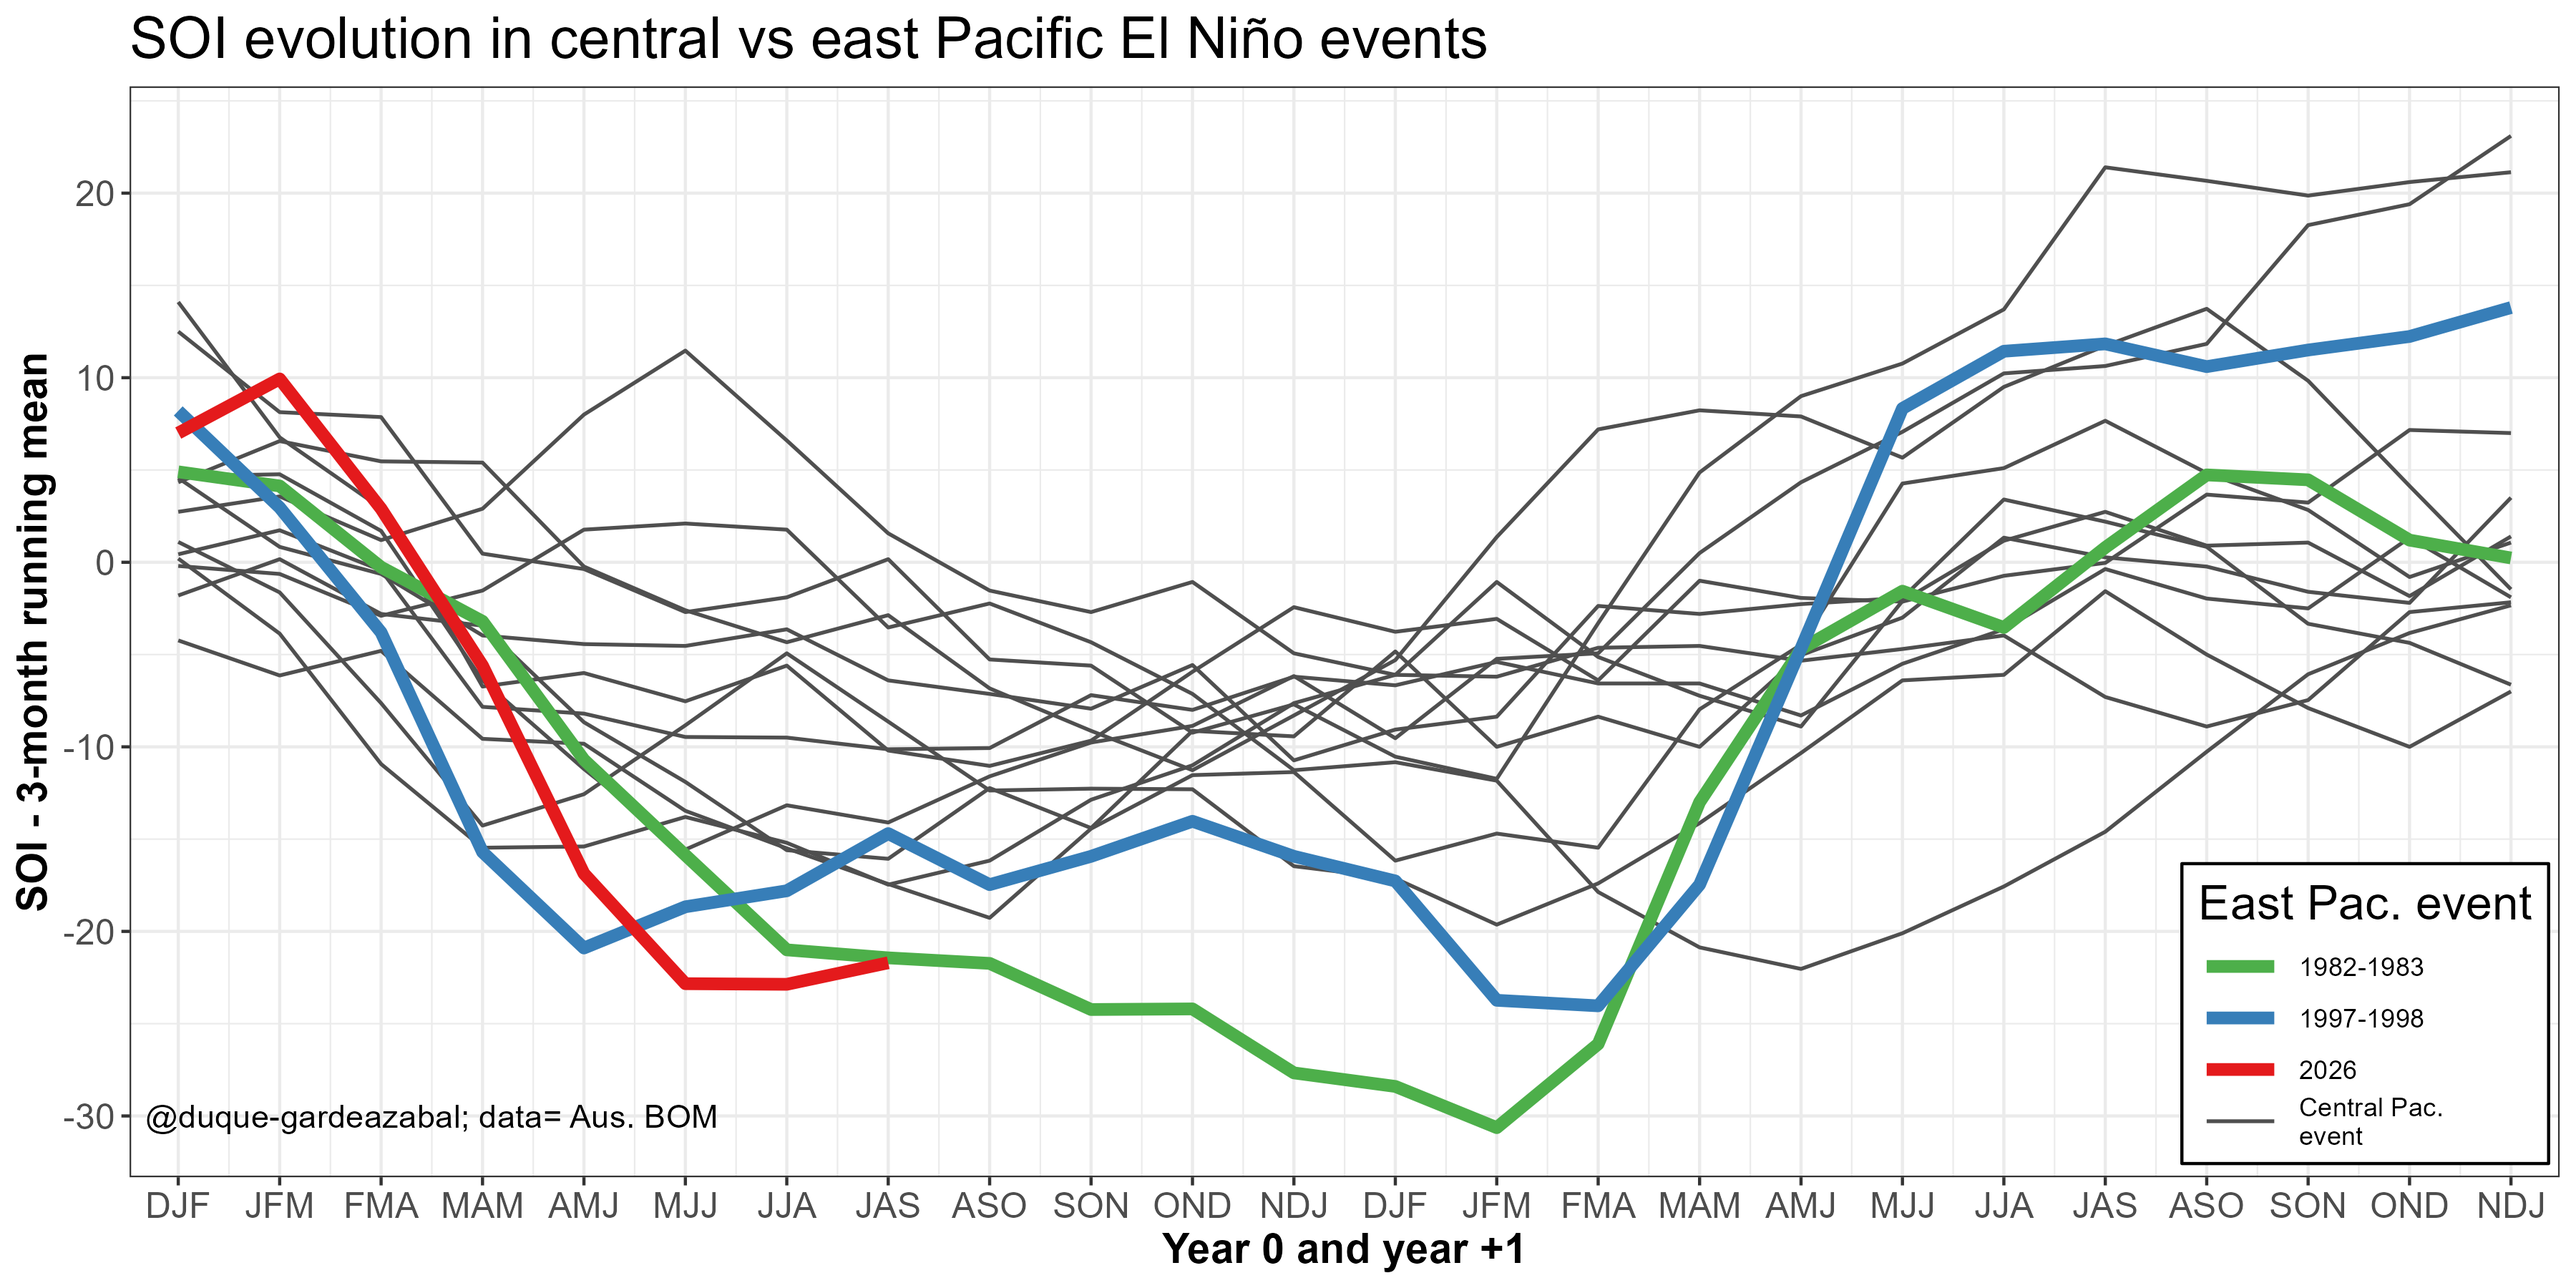
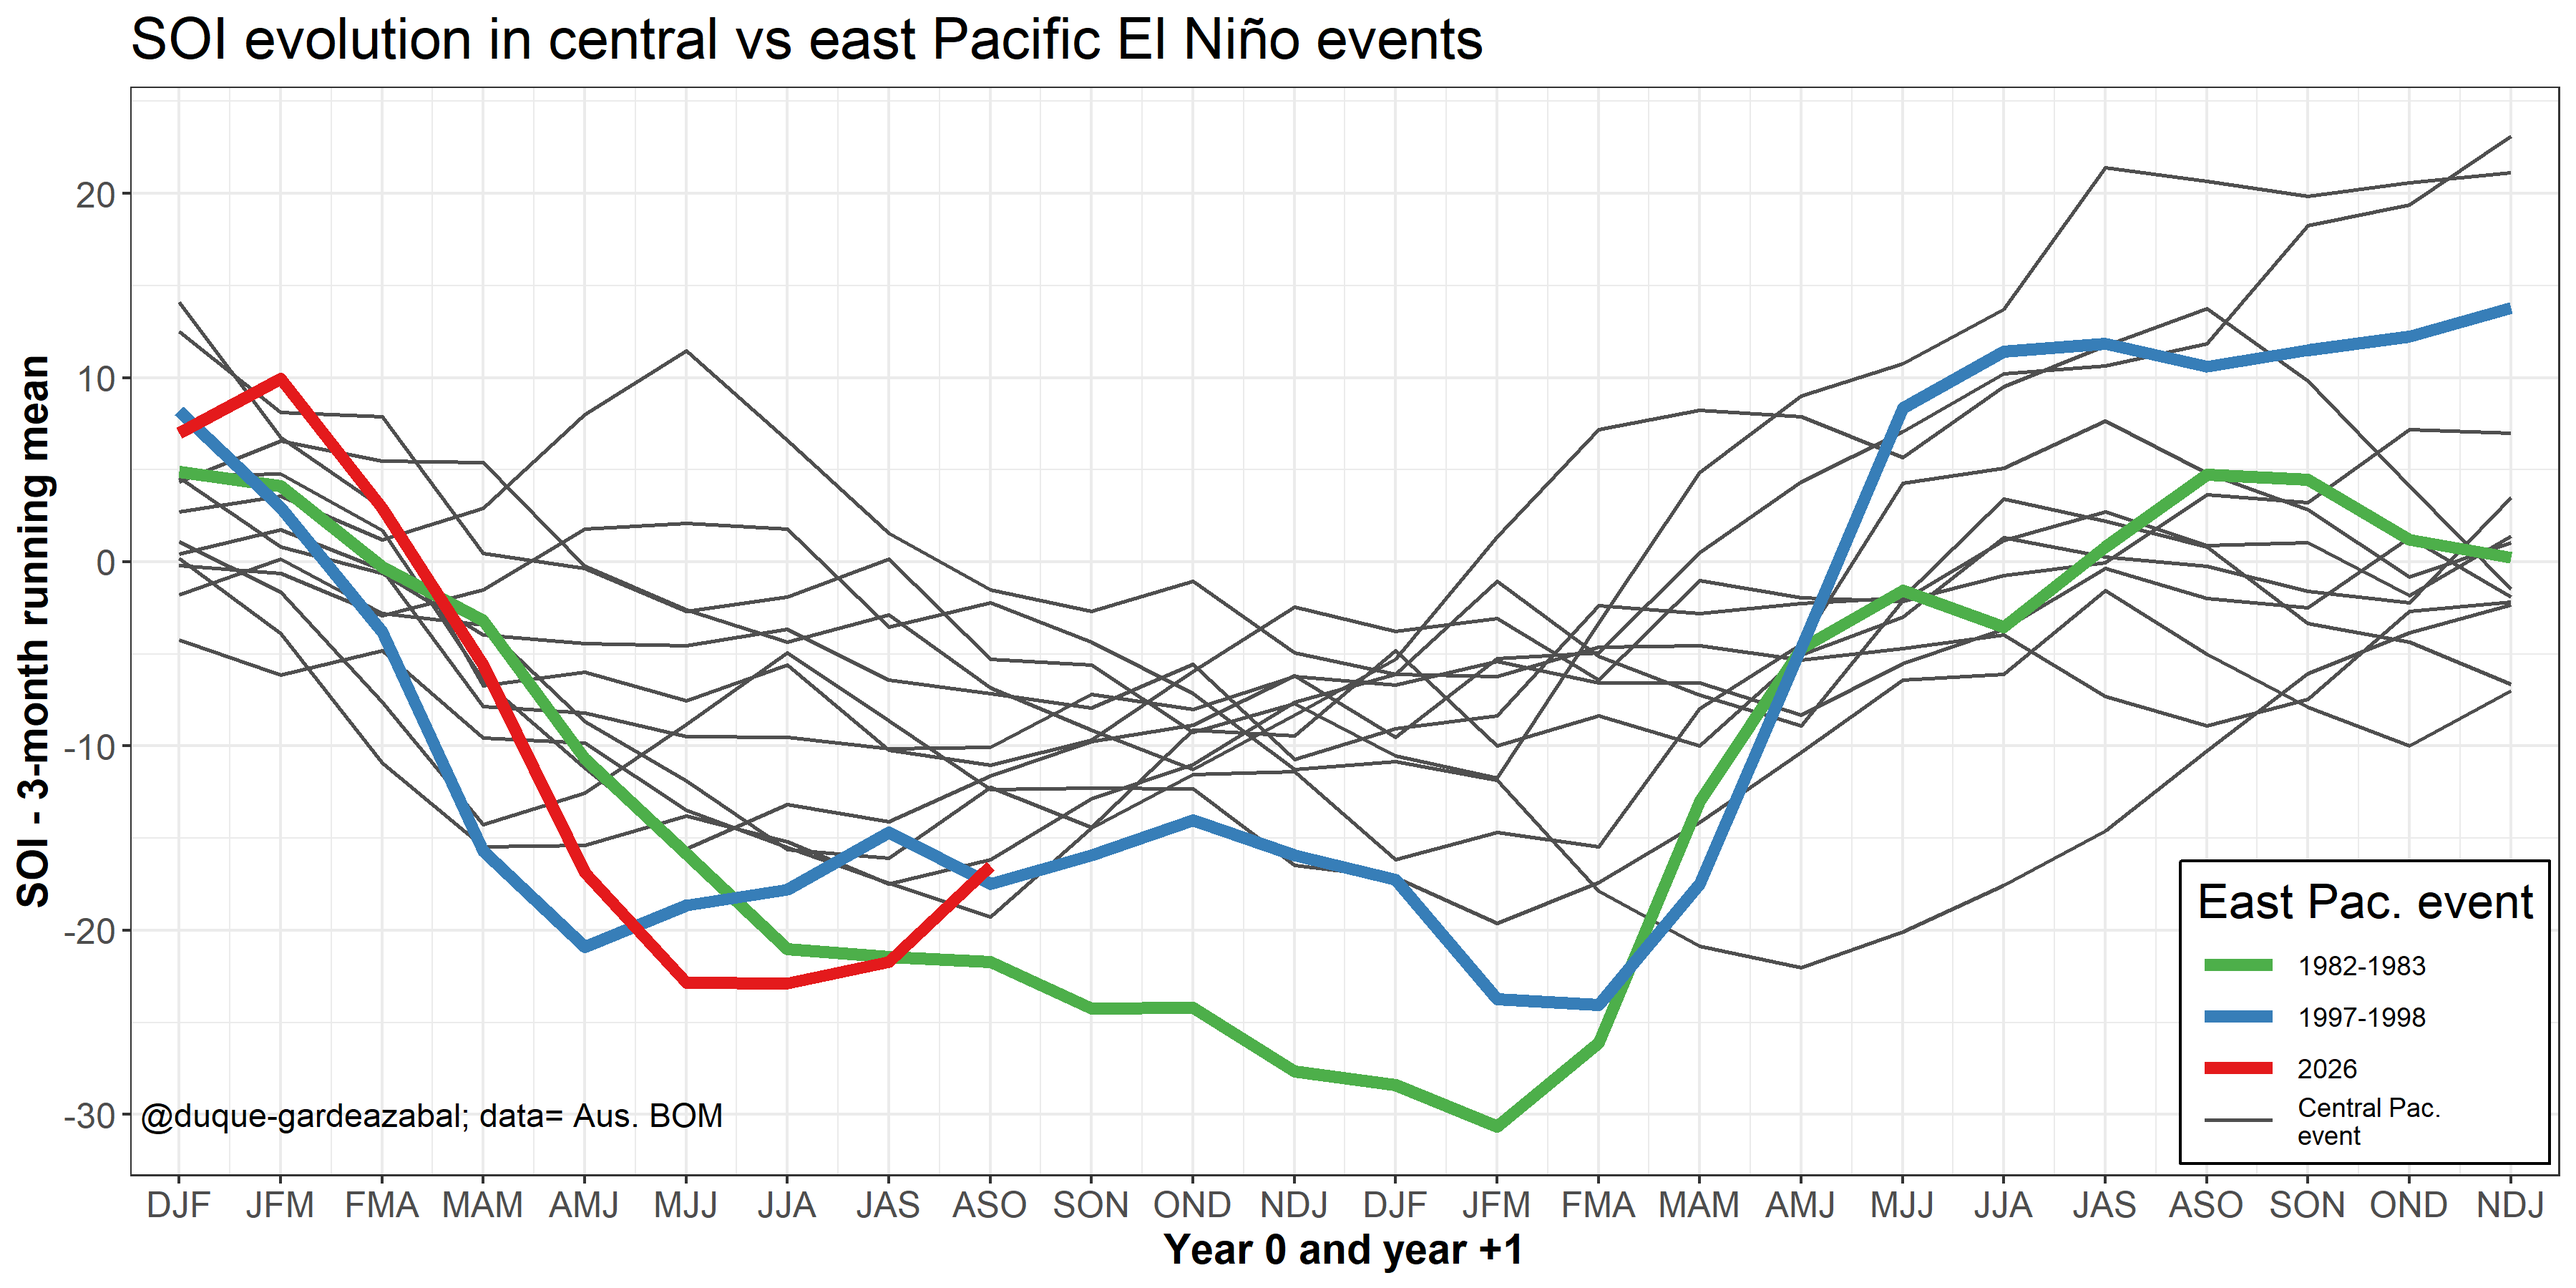
ENSO and Atl update November

diff --git a/pages/part01/Atl_impacts.md b/pages/part01/Atl_impacts.md
@@ -42,8 +42,8 @@ Forecasting these modes is possible and thus we can predict the impacts they hav
 
 ## Current values - Atlantic modes
 
-Date: 2026-09-04
+Date: 2026-10-14
 
-Meridional mode:  0.34 - includes the retrival of global warming implicitly
+Meridional mode:  0.37 - includes the retrival of global warming implicitly
 
-Equatorial mode:  0.39 - includes global warming, this calculation does not retrieve the rising trend in SSTs (under construction) 
+Equatorial mode:  0.69 - includes global warming, this calculation does not retrieve the rising trend in SSTs (under construction) 

diff --git a/index.md b/index.md
@@ -22,7 +22,7 @@ This helps to improve forecasts, adjust logistic processes and *reduce the impac
 Last 12 months of SPI-3 over Colombia, classified according to the WMO.
 ```
 
-**Current El Niño Longitude Index (ELI) = 188.8 - Date: 2026-09-03 - [ENSO diversity](pages/part01/ENSO_diversity.md)**
+**Current El Niño Longitude Index (ELI) = 189.2 - Date: 2026-10-04 - [ENSO diversity](pages/part01/ENSO_diversity.md)**
 
 ---
 

diff --git a/pages/part01/ENSO_diversity.md b/pages/part01/ENSO_diversity.md
@@ -18,7 +18,7 @@ exports:
     output: _build/exports/typst/
 ---
 
-**Current El Niño Longitude Index (ELI) = 188.8 - Date: 2026-09-03**
+**Current El Niño Longitude Index (ELI) = 189.2 - Date: 2026-10-04**
 
 # Every El Niño event is different and also its impacts
 
